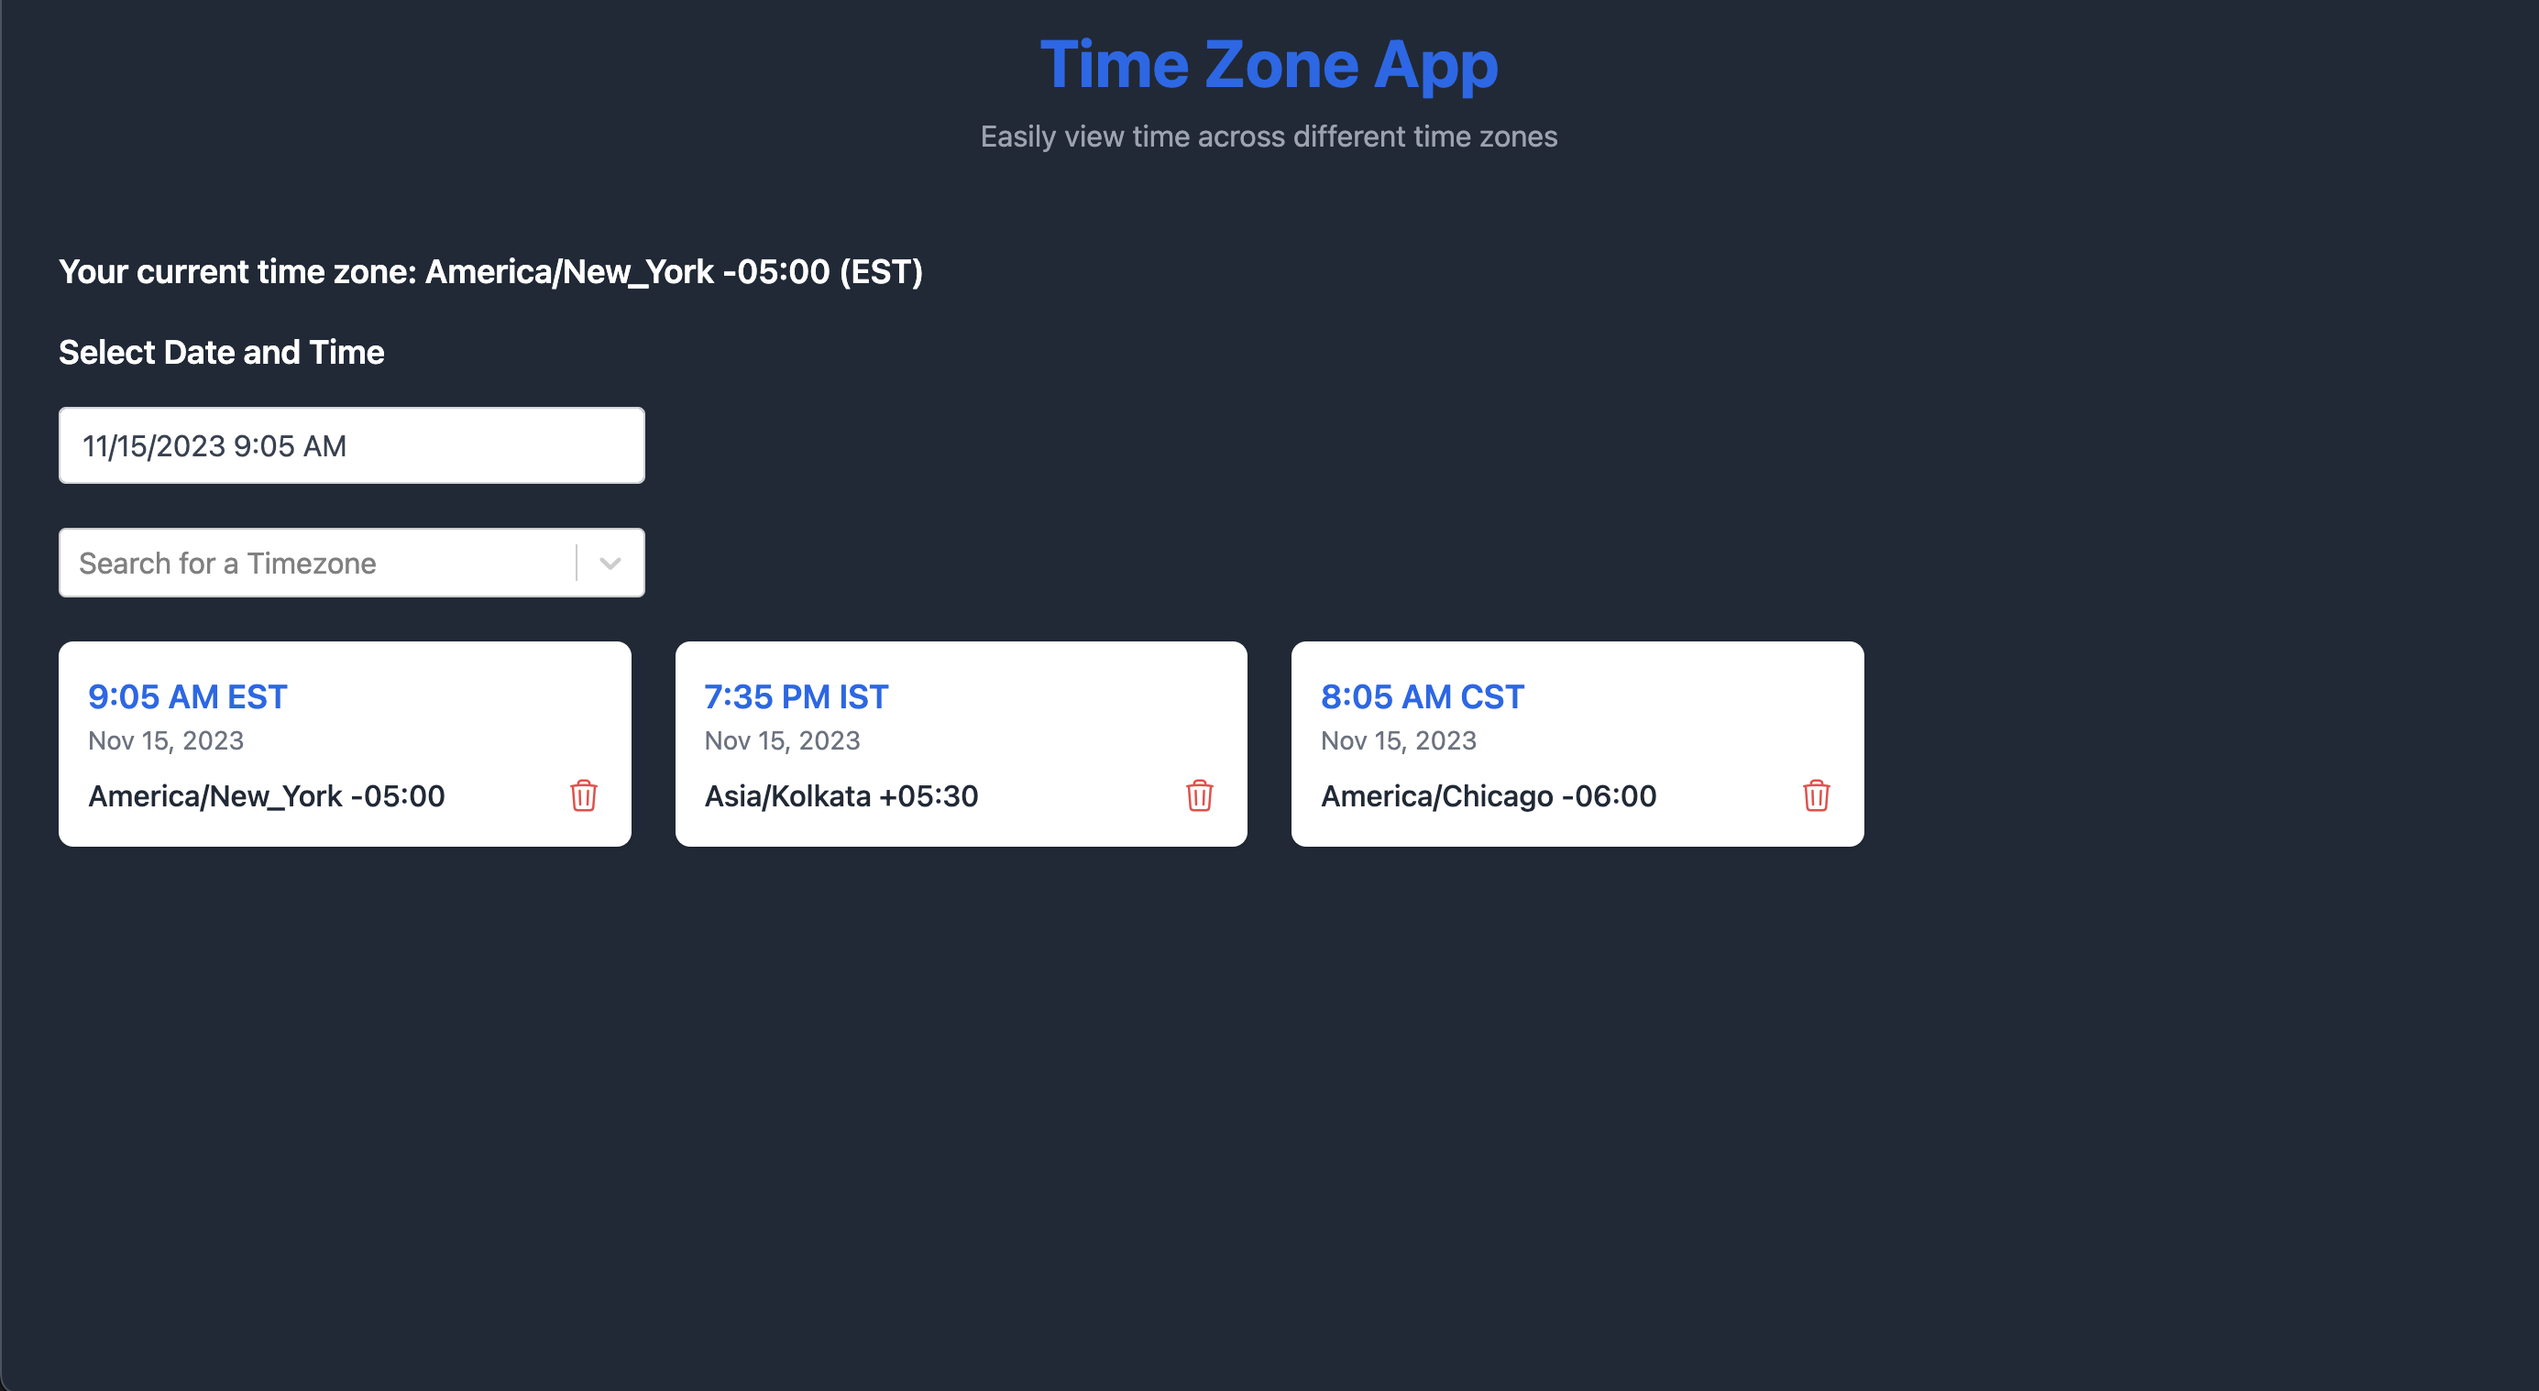
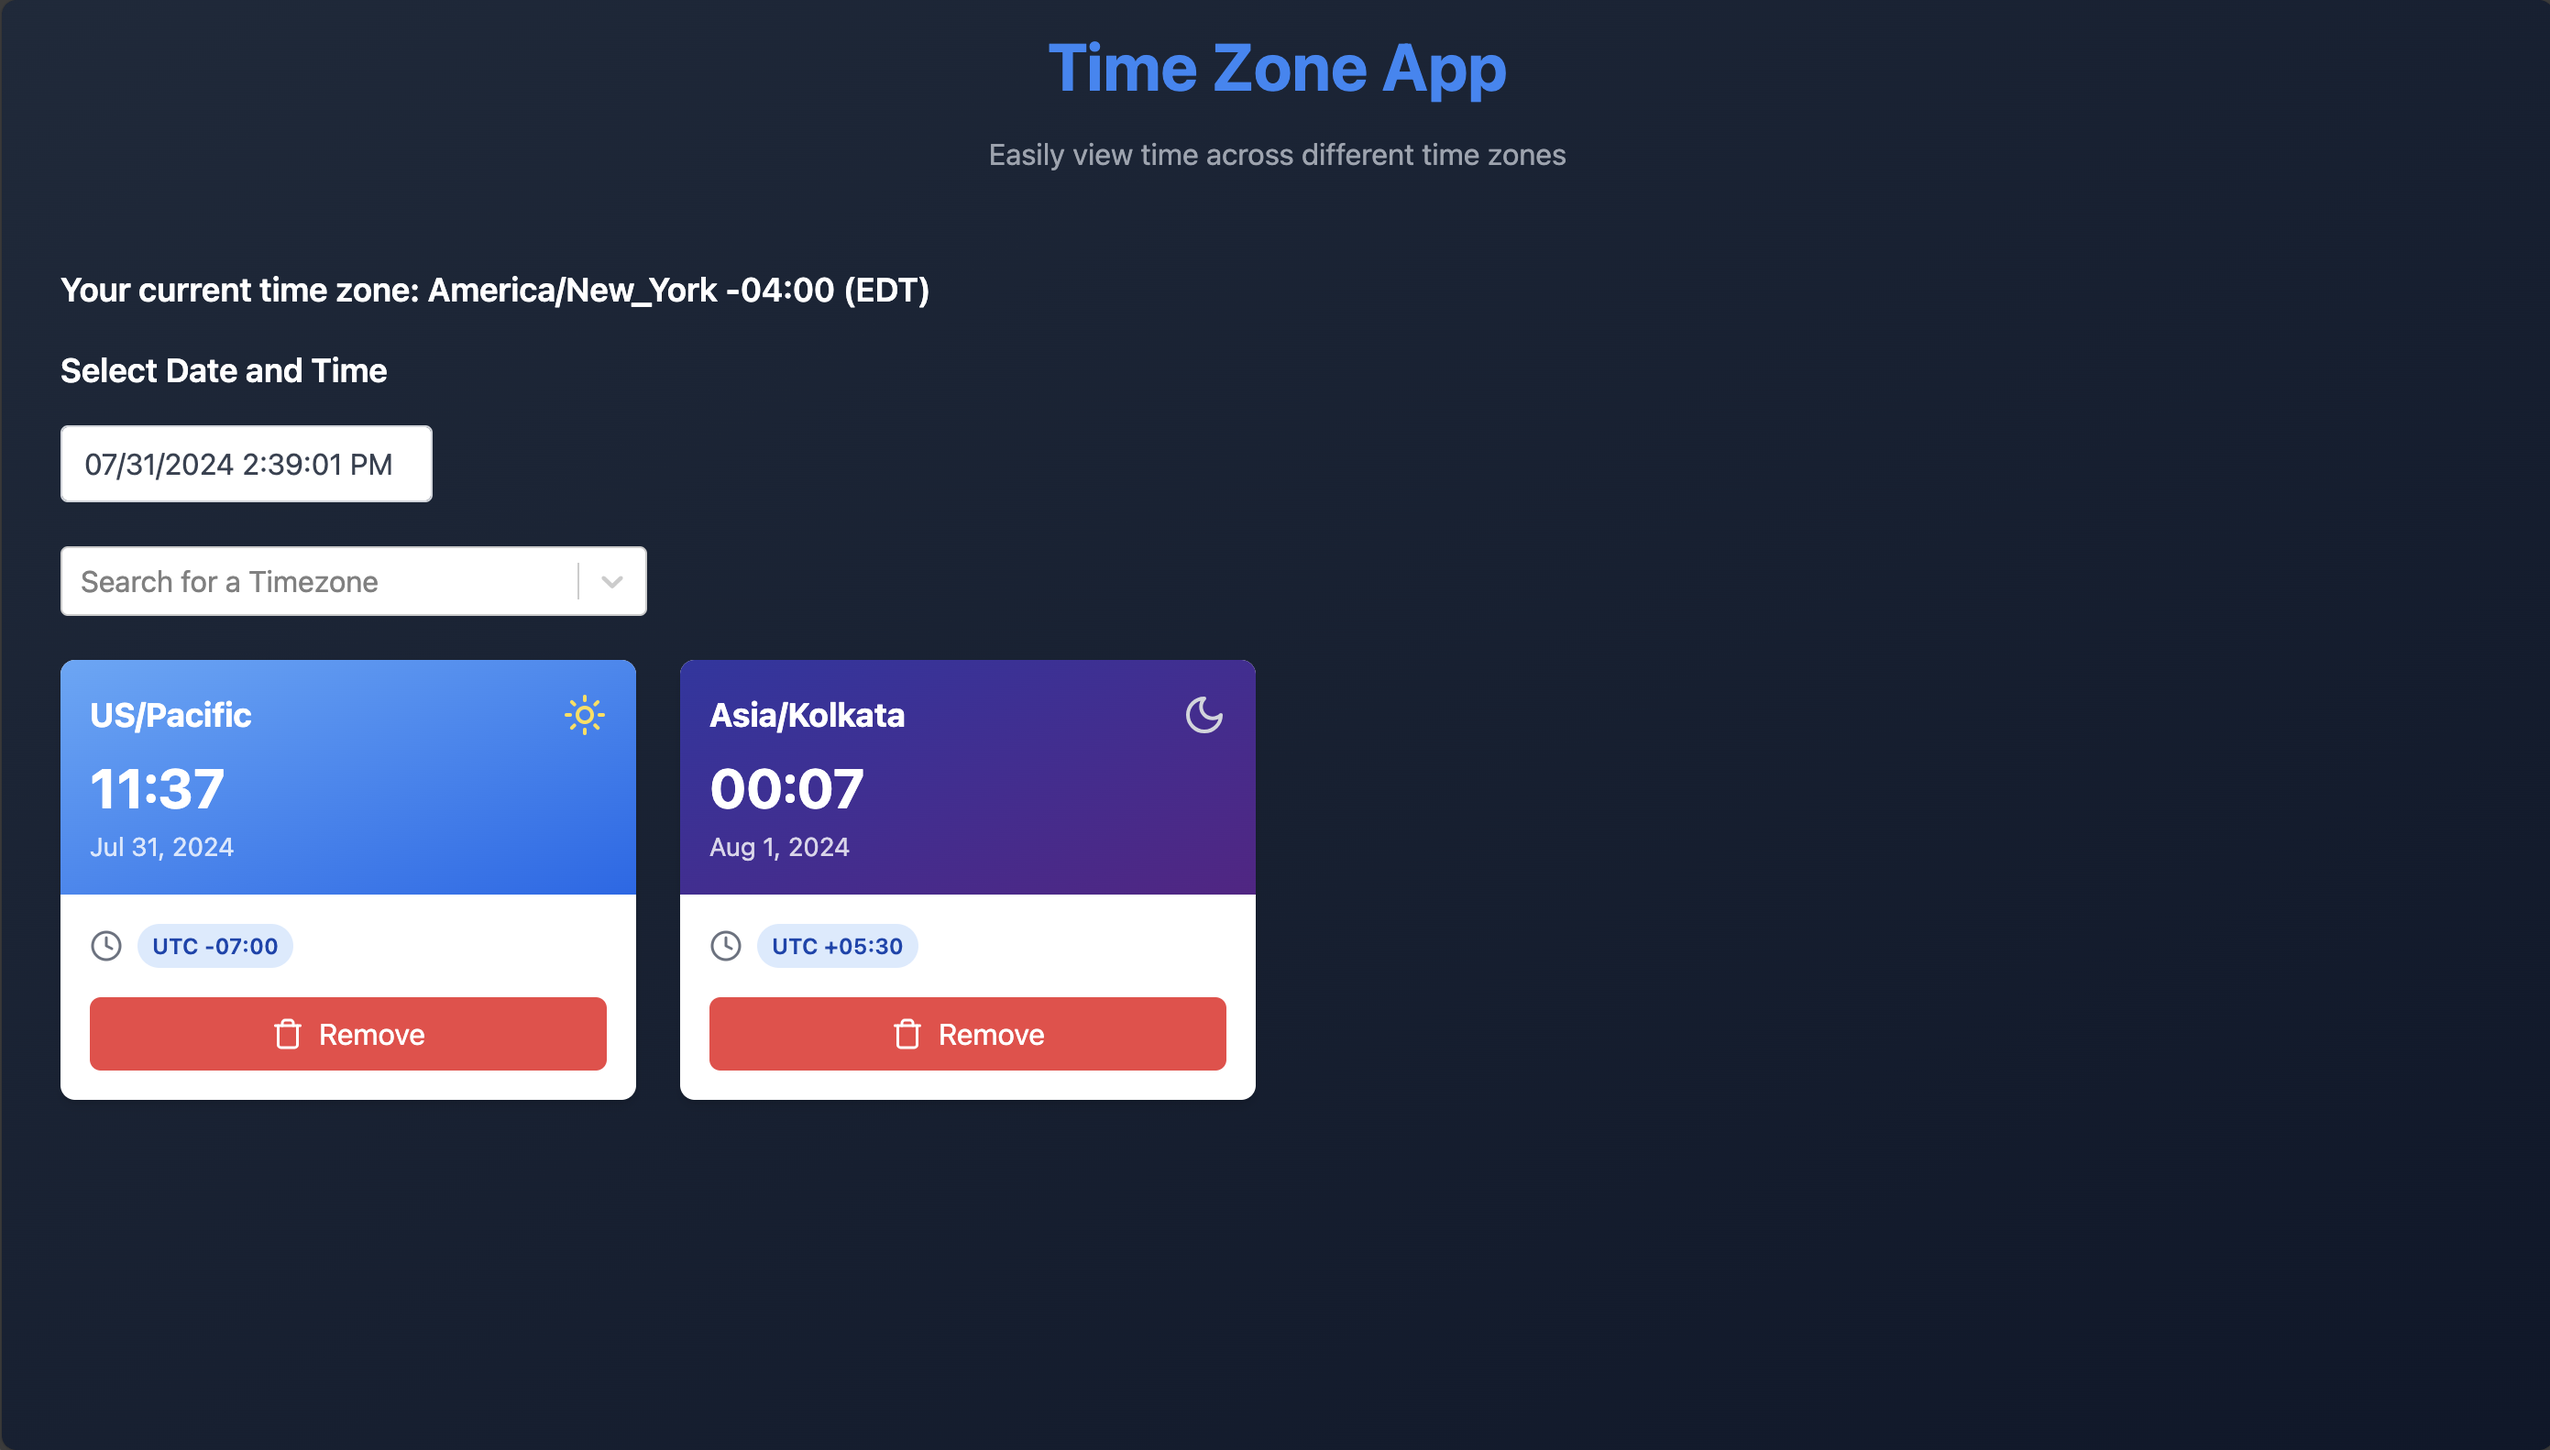
UI Changes to Time Zone Card and Grid

diff --git a/src/TimeZonesGrid.jsx b/src/TimeZonesGrid.jsx
@@ -1,80 +1,15 @@
-import React from "react";
-import moment from "moment-timezone";
-
-// Custom Card component
-const Card = ({ children, className = "" }) => (
-  <div className={`bg-white rounded-lg shadow hover:shadow-lg transition-shadow duration-300 ${className}`}>
-    {children}
-  </div>
-);
-
-// Custom Button component
-const Button = ({ children, onClick, className = "" }) => (
-  <button
-    className={`px-4 py-2 rounded-md text-white bg-red-500 hover:bg-red-600 transition-colors duration-300 ${className}`}
-    onClick={onClick}
-  >
-    {children}
-  </button>
-);
-
-// Custom Badge component
-const Badge = ({ children, className = "" }) => (
-  <span className={`px-2 py-1 text-xs font-semibold rounded-full bg-gray-200 text-gray-700 ${className}`}>
-    {children}
-  </span>
-);
-
-// Icons
-const ClockIcon = () => (
-  <svg xmlns="http://www.w3.org/2000/svg" className="h-5 w-5" viewBox="0 0 20 20" fill="currentColor">
-    <path fillRule="evenodd" d="M10 18a8 8 0 100-16 8 8 0 000 16zm1-12a1 1 0 10-2 0v4a1 1 0 00.293.707l2.828 2.829a1 1 0 101.415-1.415L11 9.586V6z" clipRule="evenodd" />
-  </svg>
-);
-
-const TrashIcon = () => (
-  <svg xmlns="http://www.w3.org/2000/svg" className="h-5 w-5" viewBox="0 0 20 20" fill="currentColor">
-    <path fillRule="evenodd" d="M9 2a1 1 0 00-.894.553L7.382 4H4a1 1 0 000 2v10a2 2 0 002 2h8a2 2 0 002-2V6a1 1 0 100-2h-3.382l-.724-1.447A1 1 0 0011 2H9zM7 8a1 1 0 012 0v6a1 1 0 11-2 0V8zm5-1a1 1 0 00-1 1v6a1 1 0 102 0V8a1 1 0 00-1-1z" clipRule="evenodd" />
-  </svg>
-);
-
-const MapPinIcon = () => (
-  <svg xmlns="http://www.w3.org/2000/svg" className="h-5 w-5" viewBox="0 0 20 20" fill="currentColor">
-    <path fillRule="evenodd" d="M5.05 4.05a7 7 0 119.9 9.9L10 18.9l-4.95-4.95a7 7 0 010-9.9zM10 11a2 2 0 100-4 2 2 0 000 4z" clipRule="evenodd" />
-  </svg>
-);
+import React from 'react';
+import TimeZoneCard from './TimeZoneCard';
 
 const TimeZonesGrid = ({ timeZoneList, onDeleteTimeZone }) => {
-  const getTimeZoneOffset = (timeZone, format) => {
-    return moment.tz(timeZone).format(format);
-  };
-
   return (
     <div className="grid grid-cols-1 sm:grid-cols-2 lg:grid-cols-3 xl:grid-cols-4 gap-6 mt-6">
-      {timeZoneList.map(({ timeZone, time, date }, index) => (
-        <Card key={index}>
-          <div className="p-4">
-            <div className="flex justify-between items-center mb-2">
-              <h3 className="font-bold text-lg">{timeZone}</h3>
-              <ClockIcon />
-            </div>
-            <div className="text-2xl font-bold text-blue-600">{time}</div>
-            <p className="text-sm text-gray-500 mb-2">{date}</p>
-            <div className="flex items-center mb-4">
-              <MapPinIcon />
-              <Badge className="ml-2">
-                {getTimeZoneOffset(timeZone, "Z")}
-              </Badge>
-            </div>
-            <Button
-              className="w-full flex items-center justify-center"
-              onClick={() => onDeleteTimeZone(timeZone)}
-            >
-              <TrashIcon />
-              <span className="ml-2">Remove</span>
-            </Button>
-          </div>
-        </Card>
+      {timeZoneList.map((tz) => (
+        <TimeZoneCard
+          key={tz.timeZone}
+          timeZone={tz.timeZone}
+          onDelete={onDeleteTimeZone}
+        />
       ))}
     </div>
   );

diff --git a/src/TimeZoneCard.jsx b/src/TimeZoneCard.jsx
@@ -1,0 +1,69 @@
+import React, { useMemo, useCallback } from 'react';
+import moment from "moment-timezone";
+import { Clock, Trash, Sun, Moon } from 'lucide-react';
+
+const Card = ({ children, className = "" }) => (
+    <div className={`bg-white rounded-lg shadow-md hover:shadow-lg transition-all duration-300 ${className}`}>
+        {children}
+    </div>
+);
+
+const Button = (({ children, onClick, className = "" }) => (
+    <button
+        className={`px-4 py-2 rounded-md text-white bg-red-500 hover:bg-red-600 transition-colors duration-300 ${className}`}
+        onClick={onClick}
+    >
+        {children}
+    </button>
+));
+
+const Badge = ({ children, className = "" }) => (
+    <span className={`px-2 py-1 text-xs font-semibold rounded-full ${className}`}>
+        {children}
+    </span>
+);
+
+const TimeZoneCard = ({ timeZone, onDelete }) => {
+    const { offset, time, date, isDaytime } = useMemo(() => {
+        const now = moment().tz(timeZone);
+        return {
+            offset: now.format('Z'),
+            time: now.format('HH:mm'),
+            date: now.format('MMM D, YYYY'),
+            isDaytime: now.hour() >= 6 && now.hour() < 18
+        };
+    }, [timeZone]);
+
+    const handleDelete = useCallback(() => onDelete(timeZone), [onDelete, timeZone]);
+
+    return (
+        <Card className="overflow-hidden">
+            <div className={`p-4 ${isDaytime ? 'bg-gradient-to-br from-blue-400 to-blue-600' : 'bg-gradient-to-br from-indigo-800 to-purple-900'}`}>
+                <div className="flex justify-between items-center mb-2">
+                    <h3 className="font-bold text-lg text-white">{timeZone}</h3>
+                    {isDaytime ? <Sun className="text-yellow-300" /> : <Moon className="text-gray-300" />}
+                </div>
+                <div className="text-3xl font-bold text-white mb-1">{time}</div>
+                <p className="text-sm text-white/80">{date}</p>
+            </div>
+            <div className="p-4">
+                <div className="flex items-center mb-4">
+                    <Clock className="text-gray-500" size={18} />
+                    <Badge className="ml-2 bg-blue-100 text-blue-800">
+                        UTC {offset}
+                    </Badge>
+                </div>
+                <Button
+                    className="w-full flex items-center justify-center"
+                    onClick={handleDelete}
+                >
+                    <Trash size={18} />
+                    <span className="ml-2">Remove</span>
+                </Button>
+            </div>
+        </Card>
+    );
+};
+
+
+export default TimeZoneCard;

diff --git a/src/Header.jsx b/src/Header.jsx
@@ -1,7 +1,7 @@
 const Header = () => {
     return (
         <header className="text-center mb-8">
-            <h1 className="text-4xl font-bold text-blue-600">Time Zone App</h1>
+            <h1 className="text-4xl font-bold text-blue-500 mb-4">Time Zone App</h1>
             <p className="text-md text-gray-400 mt-2">Easily view time across different time zones</p>
         </header>
     )

diff --git a/src/App.jsx b/src/App.jsx
@@ -21,7 +21,7 @@ function App() {
   }, []);
 
   return (
-    <div className="flex flex-col items-center min-h-screen bg-gray-800 p-4">
+    <div className="flex flex-col items-center bg-gradient-to-br from-slate-800 to-slate-900 min-h-screen p-4">
       <Header />
       <div className='w-full max-w-screen p-4'>
         <DateTimePicker onDateTimeChange={handleTimeChange} />

diff --git a/src/DateTimePicker.jsx b/src/DateTimePicker.jsx
@@ -1,4 +1,4 @@
-import React, { useState, useEffect, useRef } from "react";
+import { useState, useEffect, useRef } from "react";
 import DatePicker from "react-datepicker";
 import moment from "moment-timezone";
 import "react-datepicker/dist/react-datepicker.css";
